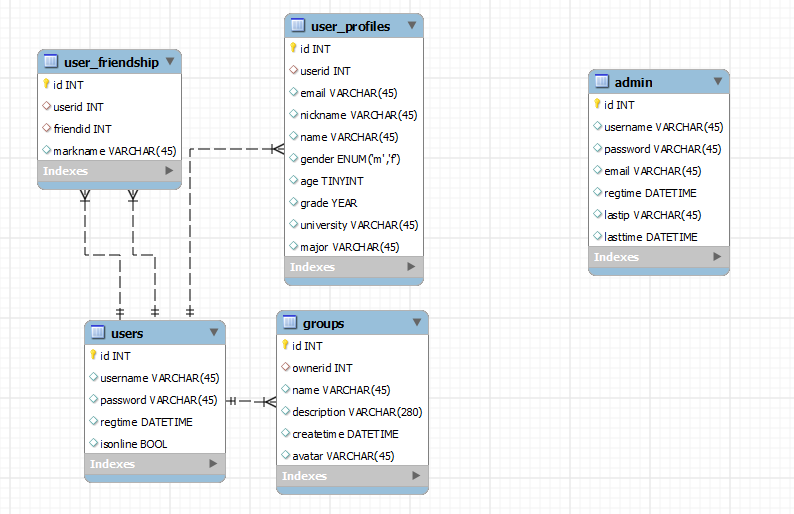
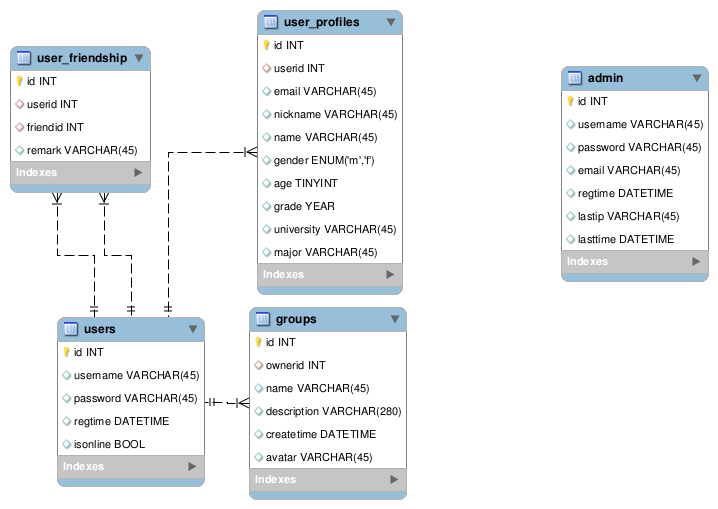
fix attachFriend in /setup

Changed region(s): [[0.0, 0.0, 0.5822, 1.0], [0.7354, 0.1179, 1.0, 0.5599]]

diff --git a/setup/index.js b/setup/index.js
@@ -6,11 +6,9 @@ var _ = require('underscore'),
 	connConfig = config.db.connection,
 	dbName = connConfig.database,
 	User = require('../models/user'),
-	UserFriendship = require('../models/user-friendship'),
 	Users = User.Set,
 	numUsers = 100,
-	sqlFile = __dirname + '/db.sql',
-	users;
+	sqlFile = __dirname + '/db.sql';
 
 // create database for test
 execsql.config(connConfig)
@@ -34,34 +32,40 @@ execsql.config(connConfig)
 	});
 
 function attachFriends() {
-	return users
-		.mapThen(function (user) {
-			var p = f(user);
-			_.times(_.random(2, 5), function () {
-				p = p.then(f);
+	return Users.forge().fetch().then(function (users) {
+		return users
+			.mapThen(function (user) {
+				var numFriends = _.random(2, 5), p;
+				_.times(numFriends, function () {
+					if (!p) return p = f(user);
+					p = p.then(f);
+				});
+				return p;
+			}).then(function () {
+				console.log('friends attached');
 			});
-			return p;
-		}).then(function () {
-			console.log('friends attached');
-		});
+	});
 	function f(user) {
 		var friendid = _.random(1, numUsers);
-		return UserFriendship
-			.addFriendship(user.id, friendid, chance.word())
-			.then(function () {
-				return user;
-			});
+		return user.addFriend(friendid, chance.word());
 	}
 }
 
 function createUsers() {
-	users = Users.forge();
+	var users = Users.forge();
 	_.times(numUsers, function (i) {
 		users.add(User.randomForge());
 	});
 	return users.invokeThen('register')
 		.then(function () {
-			console.log('%d users created', numUsers);
+			return users
+				.mapThen(function (user) {
+					// login or not
+					if (chance.bool()) return;
+					return user.login();
+				}).then(function () {
+					console.log('%d users created', numUsers);
+				});
 		});
 }
 

diff --git a/models/user-friendship.js b/models/user-friendship.js
@@ -6,7 +6,7 @@ var _ = require('underscore'),
 UserFriendship = module.exports = syBookshelf.Model.extend({
 	tableName: 'user_friendship',
 	fields: [
-		'id', 'userid', 'friendid', 'markname'
+		'id', 'userid', 'friendid', 'remark'
 	],
 	omitInJSON: ['id', 'userid']
 }, {
@@ -17,23 +17,21 @@ UserFriendship = module.exports = syBookshelf.Model.extend({
 		}).fetch();
 	},
 
-	addFriendship: function (from, to, markname) {
+	addFriendship: function (from, to, remark) {
 		return this.getFriendship(from, to)
 			.then(function (friendship) {
 				if (friendship) {
-					return friendship.set({
-						markname: markname
-					}).save();
+					return friendship.set('remark', remark).save();
 				}
 				return UserFriendship.forge({
 					userid: from,
 					friendid: to,
-					markname: markname
+					remark: remark
 				}).save();
 			});
 	}
 });
 
-UserFriendshipSet = UserFriendship.Collection = syBookshelf.Collection.extend({
+UserFriendshipSet = UserFriendship.Set = syBookshelf.Collection.extend({
 	model: UserFriendship
 });

diff --git a/models/user-profile.js b/models/user-profile.js
@@ -39,6 +39,6 @@ UserProfile = module.exports = syBookshelf.Model.extend({
 	}
 });
 
-UserProfiles = UserProfile.Collection = syBookshelf.Collection.extend({
+UserProfiles = UserProfile.Set = syBookshelf.Collection.extend({
 	model: UserProfile
 });
